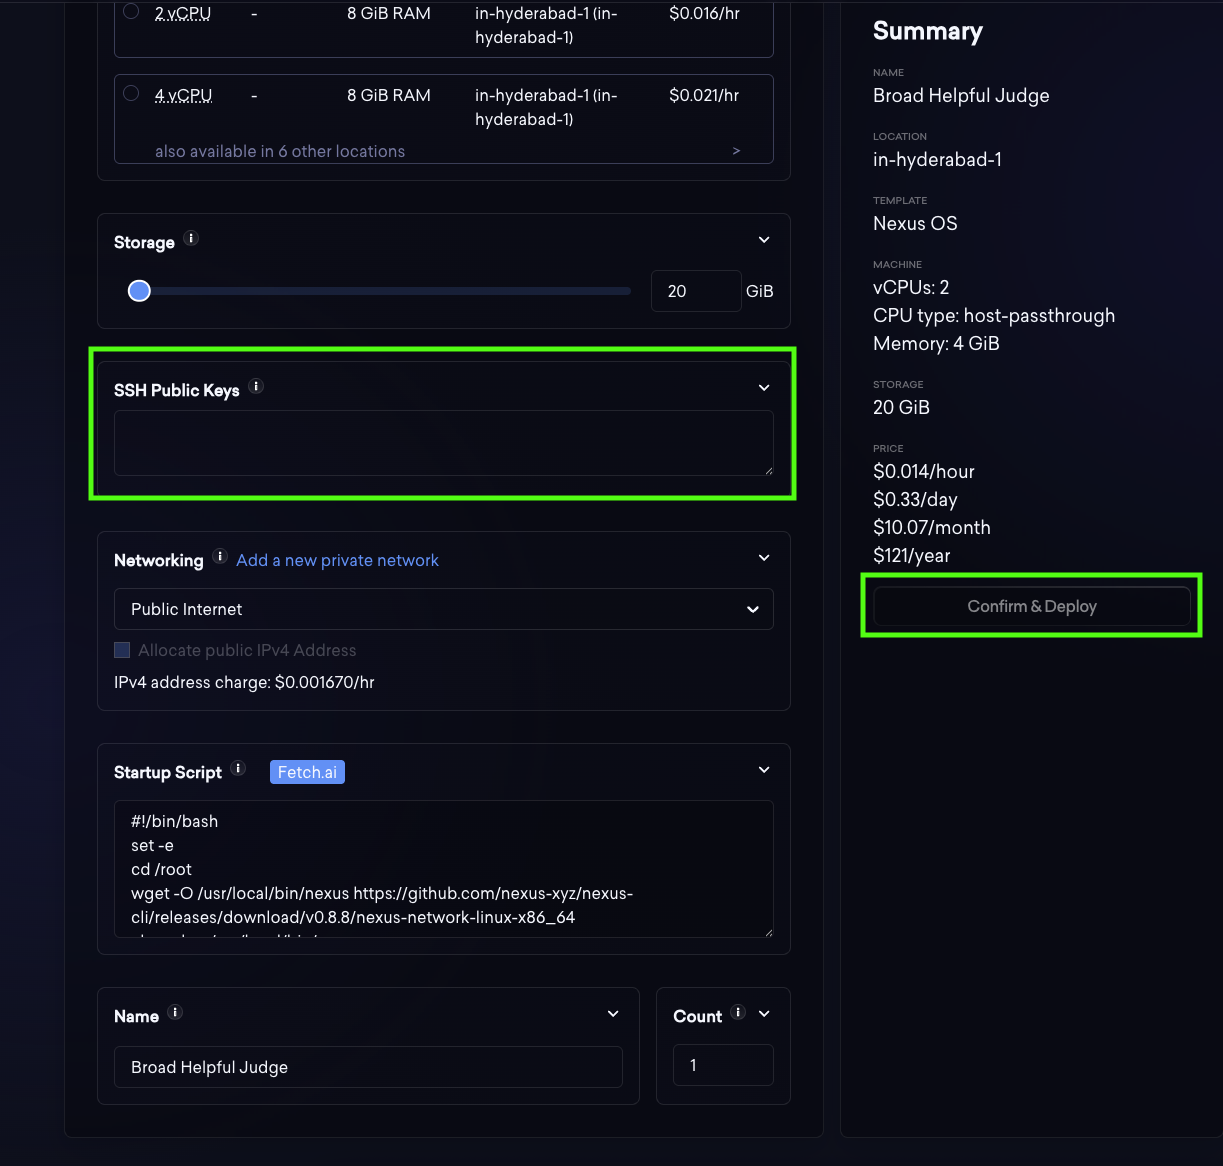
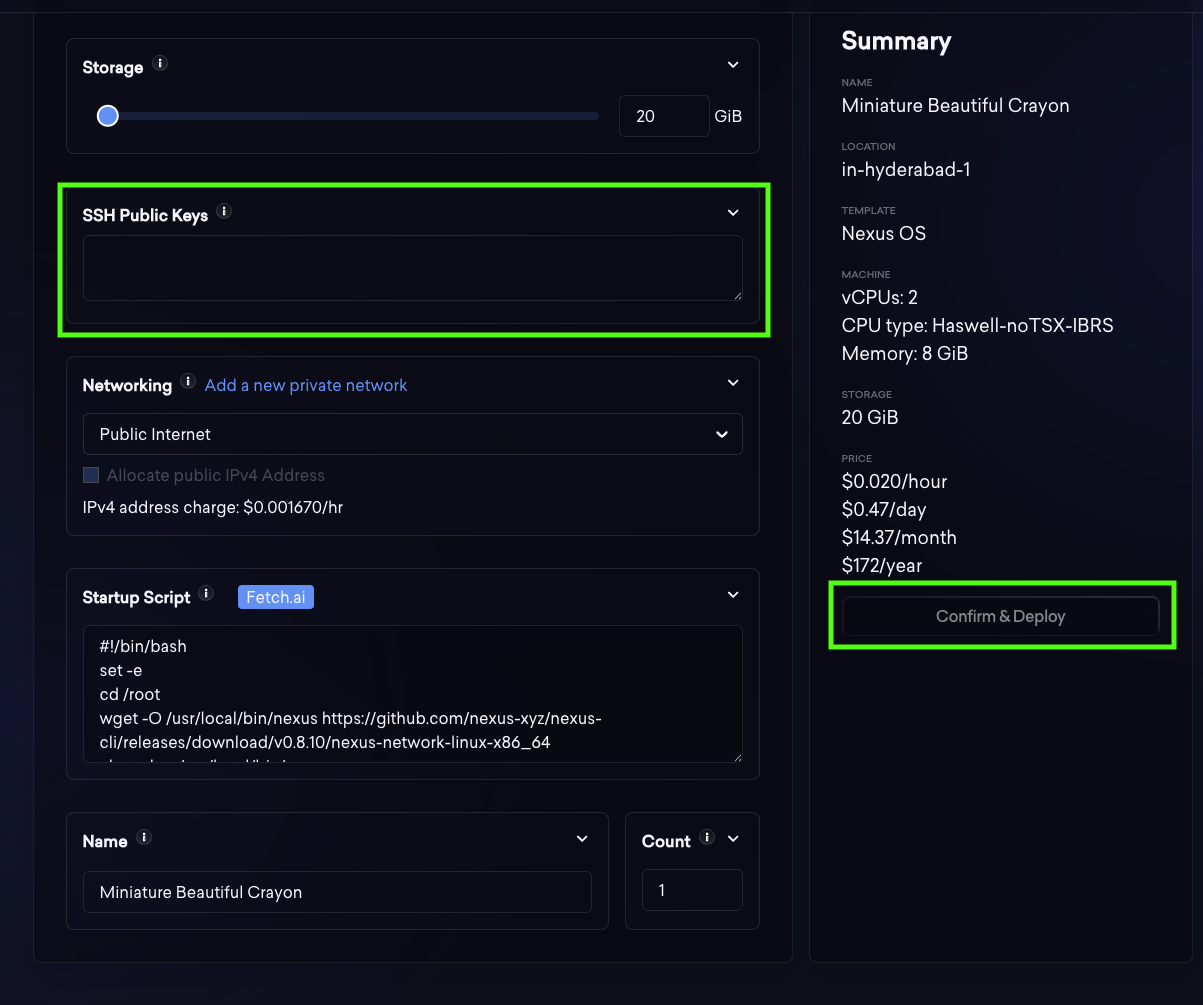
Nexus Doc

diff --git a/docs/cudos-intercloud/usage/via-user-interface/templates/nexus-os.md b/docs/cudos-intercloud/usage/via-user-interface/templates/nexus-os.md
@@ -4,14 +4,14 @@ id: nexus-os
 ---
 The Nexus L1 concentrates the world’s compute power into a single, ultra-high performance, EVM-compatible blockchain. Run a node with ease and start contributing to the next-gen compute network.
 
+Nexus Testnet III will be a staggered release in order to deliver the most stable and performant experience to everyone. Throughout today (23/06/2025), it will go live in the United States, Vietnam, Nigeria, Russia, India, Indonesia, the United Kingdom, and Hong Kong SAR and Mainland China in order.
+
 ## Get started
 
 ### Prerequisites
-- A Nexus account  
-  Sign up [here](https://app.nexus.xyz/).
 
-- Nexus CLI Node ID  
-  You can find this by logging into your Nexus account, navigating to the **Nodes** tab, and clicking **“Add CLI Node.”**
+- Wallet Address  
+  This is the wallet address you logged into the Nexus app with. Login [here](https://app.nexus.xyz/)
 
 - SSH Public Key  
   This is required to access your node. Follow our step-by-step guide to [generate an SSH key](https://docs.cudos.org/docs/cudos-intercloud/usage/via-user-interface/creating-an-ssh-key).
@@ -21,8 +21,8 @@ To reach the [Nexus OS template](https://intercloud.cudos.org/templates) deploym
 ![nexus-5](@site/static/img/nexus_5.png)
 
 ## Customise the deployment
-On the template deployment page, enter your Node ID and select a machine.  
-The recommended specification is **2 vCPU and 4 GB RAM** (feel free to select a higher specification).  
+On the template deployment page, enter your **wallet address** and select a machine in a region where the testnet has been rolled out.  
+The recommended specification is **2 vCPU and 8 GB RAM** (feel free to select a higher specification).  
 **Note:** GPU resources are not utilised by the Nexus CLI, so adding GPU capacity is optional and not required for this deployment.
 
 
